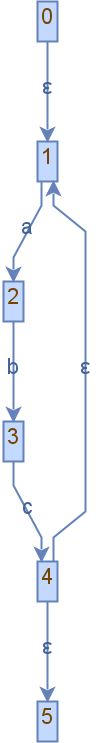
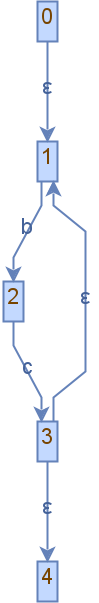
fix viz, dfa and mindfa

diff --git a/Lab2/src/main/java/ru/mephi/DFA.java b/Lab2/src/main/java/ru/mephi/DFA.java
@@ -72,7 +72,7 @@ public class DFA {
         return new SoftReference<>(new DFANode(newSet));
     }
 
-    public DFA makeDFA(SoftReference<NFA> nfa) { // изменить epsCircuits and trans чтобы была работа с ссылками
+    public DFA makeDFA(SoftReference<NFA> nfa) {
         DFA dfa = new DFA();
         dfa.alphabet.addAll(nfa.get().alphabet);
         Set<SoftReference<NFANode>> startSet = epsCircuits(nfa, nfa.get().getStart());
@@ -87,29 +87,19 @@ public class DFA {
                 DFANode curSet = new DFANode(epsCircuitsByDFANode(nfa, trans(tmpSet, symbol)));
                 int k = 0;
                 for (SoftReference<DFANode> setElem : dfa.sets) {
-                    if ((curSet.getValue().equals(setElem.get().getValue()))) { // сравнить кол-во эл-тов из множеств
+                    if ((curSet.getValue().equals(setElem.get().getValue()))) { // есть ли элемент в множестве вершин
                         k++;
                     }
                 }
-                if (k == 0) {
+                if (k == 0) { // если нет, добавляем
                     SoftReference<DFANode> curSetSR = new SoftReference<>(curSet);
                     dfa.q.add(curSetSR);
-                    tmpSet.get().listNodes.add(new Pair<>(new SoftReference<>(curSet), symbol));
-                    if (curSet.getValue().size() == 0){
+                    if (curSet.getValue().size() == 0) {
                         dfa.terminalNode = curSetSR;
                     }
                     dfa.sets.add(new SoftReference<>(curSet));
-                } else { // для терминального состояния убрать переходы
-                    for (SoftReference<DFANode> set : dfa.sets) {
-                        if (set.get().equals(tmpSet.get())) {
-                            tmpSet.get().listNodes.add(new Pair<>(dfa.terminalNode, symbol));
-                        }
-                    }
                 }
-                /*for (Pair<SoftReference<DFANode>, String> pair : tmpSet.get().listNodes) {
-                    if (!pair.getValue().equals(symbol))
-                        tmpSet.get().listNodes.add(new Pair<>(new SoftReference<>(curSet), symbol)); // делаем переход из неиспользуемых символов
-                } // в терминальный состояние */
+                tmpSet.get().listNodes.add(new Pair<>(new SoftReference<>(curSet), symbol));
             }
         }
         SoftReference<NFANode> endNode = nfa.get().getEnd();

diff --git a/Lab2/src/main/java/ru/mephi/minDFA.java b/Lab2/src/main/java/ru/mephi/minDFA.java
@@ -27,7 +27,7 @@ public class minDFA {
         int i = 0;
         for (Set<SoftReference<DFANode>> group : Splitting) {
             for (SoftReference<DFANode> node : group) {
-                if (node.get().equals(destNode.get())) {
+                if (node.get().getValue().equals(destNode.get().getValue())) {
                     return i;
                 }
             }
@@ -43,12 +43,14 @@ public class minDFA {
         for (SoftReference<DFANode> nodes : dfa.getSets()) {
             for (String symbol : dfa.alphabet) {
                 SoftReference<DFANode> nullNode = nodes.get().getTransBySymbol(symbol);
-                if (nullNode.get().equals(dfa.terminalNode.get())) {
+                if (dfa.terminalNode != null && nullNode.get().equals(dfa.terminalNode.get())) {
                     nodes.get().listNodes.removeIf(node -> node.getKey().get().equals(dfa.terminalNode.get()) && node.getValue().equals(symbol)); // не добавляется элемент с тремя штуками
                 }
             }
         }
-        dfa.sets.removeIf(node -> node.get().equals(dfa.terminalNode.get()));
+        if (dfa.terminalNode != null) {
+            dfa.sets.removeIf(node -> node.get().equals(dfa.terminalNode.get()));
+        }
         for (SoftReference<DFANode> nodes : dfa.getSets()) {
             if (!endSet.contains(nodes)) {
                 otherSet.add(nodes);
@@ -78,7 +80,7 @@ public class minDFA {
                     }
                 }
                 int del = 0;
-                // если nodeSet.equals(nodeSet); нужно разделить все элементы в nodeSet по разным группам
+                // если nodeSet.equals(group); нужно разделить все элементы в nodeSet по разным группам
                 if (nodesSet.equals(group) && nodesSet.size() > 1) {
                     for (SoftReference<DFANode> elem : nodesSet) {
                         Set<SoftReference<DFANode>> newSet = new HashSet<>();

diff --git a/Lab2/src/main/java/ru/mephi/DFANode.java b/Lab2/src/main/java/ru/mephi/DFANode.java
@@ -31,7 +31,7 @@ public class DFANode {
     public Set<SoftReference<DFANode>> getGroupByNode(Set<Set<SoftReference<DFANode>>> Splitting) {
         for (Set<SoftReference<DFANode>> group : Splitting) {
             for (SoftReference<DFANode> node : group) {
-                if (node.get().equals(this)) {
+                if (node.get().getValue().equals(this.getValue())) { // this.getValue().get().forEach().get().getID()
                     return group;
                 }
             }

diff --git a/Lab2/src/main/java/ru/mephi/Viz.java b/Lab2/src/main/java/ru/mephi/Viz.java
@@ -174,7 +174,7 @@ public class Viz {
 
     public static void main(String[] args) throws IOException {
         String str1 = "a{3,4}"; // aaa(^|a) a{3}
-        String str = "(abc)+"; // (aaa)(^|a) -> (aaa)|(aaaa)
+        String str = "(bc)+"; // (aaa)(^|a) -> (aaa)|(aaaa)
         AbstractSyntaxTree tree = new AbstractSyntaxTree(str);
         Node rootNode = tree.buildTree();
         tree.doOrder(rootNode);
